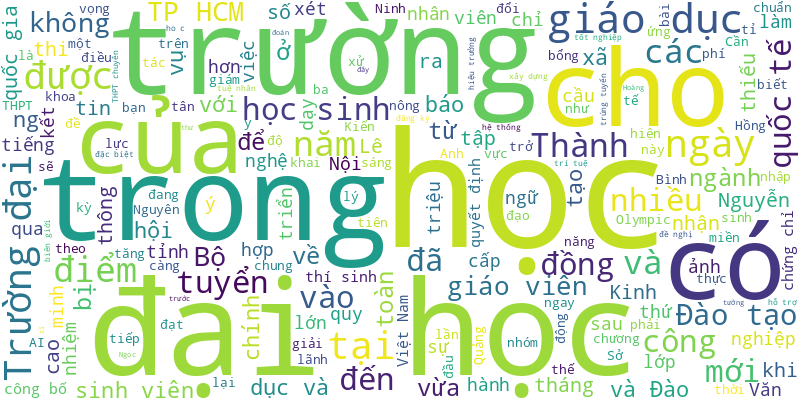
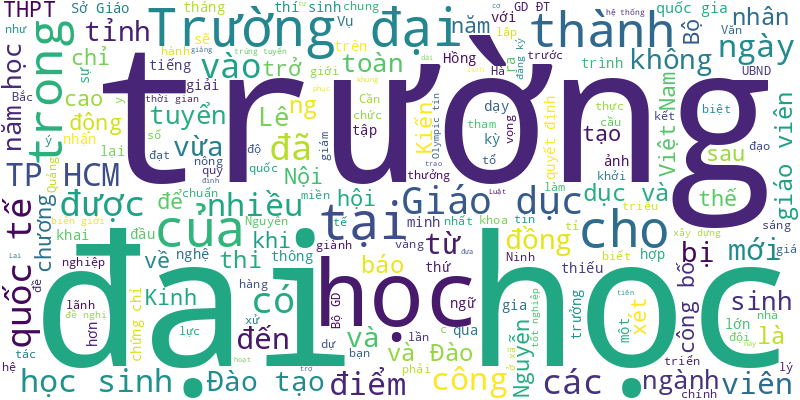
🍀 = 100%

diff --git a/README.md b/README.md
@@ -1,6 +1,17 @@
 # Tuoi Tre RSS 
 
 ## Giáo dục 
+- Từ năm học 2025 - 2026, Trường tiểu học Tô Vĩnh Diện (Hà Nội) sẽ là trường công lập đầu tiên tại Việt Nam đưa golf vào chương trình giảng dạy.
+- Bộ GD-ĐT vừa công bố khung thời gian năm học mới 2025-2026, với yêu cầu lịch tựu trường sớm nhất là trước lễ khai giảng 1 tuần.
+- Trường đại học Luật Hà Nội cơ sở 2 được xây dựng tại tỉnh Bắc Ninh, dự kiến khánh thành vào ngày 19-8.
+- Sở Giáo dục và Đào tạo TP.HCM vừa có văn bản trình UBND TP.HCM xem xét giải thể Trường quốc tế AISVN, sau một thời gian dài bị đình chỉ hoạt động mà không khắc phục được các vi phạm.
+- Hôm nay 11-8, nhiều trường tư thục ở TP.HCM đã chào đón học sinh trở lại trường sau kỳ nghỉ hè, khởi động cho năm học mới 2025 - 2026.
+- UBND tỉnh Gia Lai và nhà tài trợ đã trao thưởng em Lê Kiến Thành 100 triệu đồng vì thành tích đoạt huy chương vàng Olympic tin học quốc tế 2025.
+- Vượt qua hàng trăm đội từ các trường THPT trên toàn quốc tham gia cuộc thi FPTU AI & Robotics Challenge 2025 do Trường đại học FPT tổ chức, các học sinh Trường THPT Lê Hồng Phong (tỉnh Phú Yên cũ, nay là tỉnh Đắk Lắk) đã giành ngôi quán quân.
+- Từ Harvard, Yale, UC Berkeley đến University of Melbourne… những trường đại học danh giá hàng đầu thế giới đã trở thành đích đến của nhiều thế hệ học sinh Trường Quốc tế Á Châu (Asian School).
+- Hoàng Ngọc Thái Bình từng mơ làm bác sĩ chữa câm điếc cho ba để một lần được nghe tiếng ba gọi. Thế rồi một tháng trước ngày thi tốt nghiệp THPT mới đây, cha được chẩn đoán ung thư gan giai đoạn cuối.
+- Ý tưởng này được lãnh đạo Trường đại học Nguyễn Tất Thành công bố ngay sau khi báo Tuổi Trẻ khởi động chương trình học bổng Tiếp sức đến trường 2025.
+- Thời gian qua, bọn lừa đảo chủ yếu nhắm vào học sinh, sinh viên, có độ tuổi từ 18 đến 22 để  'bắt cóc online', đòi tiền chuộc và nhiều nạn nhân đã sập bẫy. Làm gì để ngăn tình trạng này?
 - Trường đại học Quốc tế cho biết sinh viên Lê Nguyễn Bảo Ngọc đã tốt nghiệp đại học trong đợt xét tháng 7-2025 với kết quả đạt loại giỏi.
 - Tin tức đáng chú ý: TP.HCM tuyển bổ sung hơn 4.800 giáo viên năm học 2025-2026; Cần Thơ khởi công nhà dưỡng lão chăm sóc người già neo đơn miễn phí; Đào tạo nâng cao kiến thức, kinh nghiệm của thầy thuốc điều trị tật khúc xạ...
 - Đại học Kinh tế quốc dân (NEU) vừa ban hành đề án Phát triển tiếng Anh trở thành ngôn ngữ thứ hai trong nhà trường.
@@ -40,71 +51,62 @@
 - Học 2 buổi/ngày nhưng nội dung học thế nào, có thực sự mang lại lợi ích cho học sinh không? Học sinh có được lựa chọn nội dung học tập không?...
 - Tổng điểm thi của thí sính thi vào lớp 10 khi nhân hệ số chỉ 24,4 điểm, nhưng trên bảng điểm lại là 39,4 điểm.
 - Trường đại học Y Dược TP.HCM vừa công bố danh sách 264 thí sinh bổ sung chứng chỉ quốc tế năm 2025 được cộng điểm xét tuyển đại học chính quy.
-- Chính phủ Anh chính thức nhận hồ sơ học bổng Chevening từ ngày 5-8 đến 7-10-2025, với loạt điều chỉnh trong yêu cầu ứng tuyển nhằm tăng tính gắn kết với các ưu tiên toàn cầu.
-- Ký túc xá Cỏ May đang tuyển chọn các tân sinh viên khóa 2025 có hoàn cảnh đặc biệt khó khăn, học giỏi để hỗ trợ ăn ở và học phí, tiếp tục con đường học vấn.
-- Ngoài điểm số, hiện nay ngày càng nhiều phụ huynh chú trọng đến việc rèn luyện thể chất, ý chí, khả năng làm việc nhóm và tính kỷ luật cho con, điều không thể chỉ học qua sách vở.
-- Ngay sau ngày nhập học, học sinh của 19 lớp 10 Trường THPT chuyên Chu Văn An, Hà Nội có những tiết học đầu tiên do chính cô hiệu trưởng đứng lớp với bài học về hướng nghiệp và cách xây dựng mục tiêu trong ba năm học ở cấp THPT.
-- Học sinh 3 trường THPT chuyên ở Ninh Bình được hỗ trợ 1,6 - 2,4 triệu đồng sinh hoạt phí, kèm 900.000 - 1,3 triệu đồng học bổng mỗi tháng.
-- Trong nhiệm vụ năm học mới 2025-2026 cấp phổ thông vừa được Bộ Giáo dục và Đào tạo ban hành, bài toán thiếu giáo viên tiếp tục được đặt ra.
-- Phòng Văn hóa - Xã hội thuộc UBND xã có 15 nhiệm vụ trong lĩnh vực giáo dục theo quy định mới.
-- Để đáp ứng việc dạy học trong bối cảnh trí tuệ nhân tạo (AI) ngày càng phát triển, trong thời gian hè này, hàng loạt trường học ở TP.HCM đã cấp tập đào tạo cho giáo viên về AI, chuyển đổi số.
-- Việt Nam giành 1 giải Champion, 10 huy chương vàng, 7 huy chương bạc, 4 huy chương đồng tại Đấu trường toán học châu Á AIMO 2025.
-- Quảng Ngãi đề xuất khoảng 750 tỉ đồng xây dựng 5 trường học liên cấp ở 5 xã. Các xã còn lại sẽ đề xuất sau.
-- Lần đầu tiên một chương trình đào tạo thạc sĩ chuẩn Đức trong lĩnh vực logistics và quản lý chuỗi cung ứng được tổ chức tại Việt Nam.
 ![Edu](Edu.png)
 ## Thời Sự 
-- Ung thư không còn gây chết chóc như trước kia, và những tiến bộ liên tục đang diễn ra trên phạm vi toàn cầu.
-- Cho phép người Việt vào chơi casino nếu quản lý tốt sẽ ngăn dòng tiền chảy ra nước ngoài, mang lại nguồn thu lớn cho ngân sách, góp phần lo an sinh xã hội.
-- Thời gian qua, bọn lừa đảo chủ yếu nhắm vào học sinh, sinh viên, có độ tuổi từ 18 đến 22 để  'bắt cóc online', đòi tiền chuộc và nhiều nạn nhân đã sập bẫy. Làm gì để ngăn tình trạng này?
-- Chuyến thăm cấp nhà nước 4 ngày của Tổng Bí thư Tô Lâm tới Hàn Quốc được cả hai phía đặt kỳ vọng cao, mong muốn có những dự án và con số cụ thể, đánh dấu bước tiến mới trong quan hệ Đối tác chiến lược toàn diện.
-- Sắp tới, người dân chỉ cần mở ứng dụng VNeID để mua thuốc, tiến tới người dân được nhận thuốc ngay tại nhà qua VNeID.
-- Tin tức đáng chú ý: Ủy ban Thường vụ Quốc hội họp, xem xét nhiều nội dung quan trọng; Tiền đóng bảo hiểm y tế giảm nhưng quyền lợi giữ nguyên; Ngân hàng nào cho vay nhiều nhất Việt Nam...
-- Sau thời gian vận hành, khu vực đón xe nhà ga T3 Tân Sơn Nhất vẫn còn nhiều bất cập, khiến không ít hành khách và tài xế gặp khó.
-- Hôm nay 11-8, thời tiết nắng nóng dần thu hẹp, chỉ còn tập trung ở các tỉnh miền Trung. Nam Bộ và Bắc Bộ trời có mưa to.
-- Tổng Bí thư Tô Lâm dành nhiều hoạt động cho kiều bào trong ngày 10-8, ngày đầu tiên ông đến thăm Hàn Quốc.
-- Thủ tướng Phạm Minh Chính nhấn mạnh việc triển khai hiệu quả Nghị quyết 68 của Bộ Chính trị, tạo đột phá thực sự để phát triển kinh tế tư nhân.
-- Hai ca sinh rớt bị ngưng tim, ngưng thở được các y bác sĩ Trung tâm Cấp cứu 115 TP.HCM cứu sống ngoạn mục.
-- Gặp Tổng Bí thư Tô Lâm, nhiều người Hàn Quốc đã bày tỏ tình cảm và sự gắn bó cùng những kỷ niệm không thể nào quên tại Việt Nam.
-- Báo cáo tài chính bán niên 2025 cho thấy Công ty Xổ số điện toán Việt Nam (Vietlott) đã chi tổng 2.494 tỉ đồng cho việc trả thưởng.
-- PGS.TS Nguyễn Lân Hiếu cho rằng một thiết bị có thể tăng cơ hội cứu sống người khác thì không ai lại lấy để đi bán.
-- Tài xế này cho rằng đường hẹp phải chuyển làn đường như vậy để có khoảng trống đủ rộng quay đầu xe, cũng như gia đình đang có việc đột xuất.
-- Lực lượng chức năng đã tìm thấy thi thể nam thanh niên leo núi Hoàng Ngưu Sơn nằm ở độ cao 800m so với mực nước biển.
-- Nhiều bạn đọc bày tỏ phẫn nộ với người đàn ông xăm trổ đánh dã man phụ nữ trước mặt nhiều trẻ nhỏ.
-- Đầu tối nay 10-8, trời tiết TP.HCM chuyển xấu nhanh, gió thổi bụi mù mịt, mưa to trút xuống nhiều nơi.
-- Sau gần 2 tuần kêu gọi doanh nghiệp góp ý chính sách hỗ trợ chuyển sang xe điện, Viện Nghiên cứu phát triển TP.HCM nhận được nhiều phản hồi.
-- Phường Quy Nhơn là trung tâm chính trị, văn hóa, lịch sử, kinh tế, hội tụ nhiều tiềm năng phát triển của tỉnh Gia Lai mới.
-- Các phường trung tâm của Đà Nẵng mở đợt ra quân xử lý mạnh tay các hành vi chiếm dụng vỉa hè, lòng đường.
-- Đông đã lừa đảo chiếm đoạt gần 1 tỉ đồng của một người dân thông qua thủ đoạn hứa lo thủ tục cấp giấy chứng nhận quyền sử dụng đất.
-- Sau hơn một tháng bùng phát, dịch tả heo châu Phi tại Quảng Ngãi đã cơ bản được kiểm soát.
-- Ngày 10-8, Đảng bộ quân sự tỉnh Tây Ninh tổ chức Đại hội đại biểu lần thứ I, nhiệm kỳ 2025 - 2030.
-- Nữ chiến sĩ Công an Hà Nội không chỉ hóa thân hoàn hảo vào vai "girl phố" gây rối trật tự công cộng mà còn gây ấn tượng với nhan sắc xinh đẹp.
-- Ngày 10-8, Đảng bộ phường Long Xuyên, tỉnh An Giang tổ chức thành công Đại hội đại biểu lần thứ I, nhiệm kỳ 2025-2030.
-- Việc sáp nhập TP.HCM với Bình Dương và Bà Rịa - Vũng Tàu mở ra cơ hội chưa từng có để tái cấu trúc không gian phát triển thành phố.
-- Nhiều thành phố lớn trên thế giới đang đồng thời triển khai các khu vực phát thải thấp và cấm xe xăng đi vào khu vực trung tâm.
-- Mỗi đại biểu dự Đại hội Đảng bộ xã Quỳnh Văn, Nghệ An nhận được phần quà trị giá hơn 300.000 đồng.
-- Sau gần 1 tuần tìm kiếm, trưa 10-8 lực lượng chức năng đã tìm thấy thi thể nam thanh niên mất tích khi leo núi Hoàng Ngưu Sơn (Khánh Hòa).
-- Khối nhà 3 tầng là tài sản công được UBND tỉnh Thừa Thiên Huế cũ bàn giao cho Viện Quy hoạch xây dựng quản lý.
-- Hai vụ rút chìa khóa xe; Bé trai 14 tháng tuổi bị bảo mẫu bạo hành đã qua đời… là những thông tin được nhiều bạn đọc TTO phản hồi tuần qua.
-- Một thanh niên lên mạng học làm tiền giả loại 500.000 đồng (tổng số tiền giả là 421,5 triệu đồng) nhưng chưa kịp tiêu thụ thì bị công an phát hiện.
-- Đoàn tàu được ví như “chuyên cơ mặt đất” của ngành đường sắt chính thức được đưa vào vận hành từ ngày 10-8.
-- Tổng Bí thư Tô Lâm và Phu nhân được chào đón trang trọng ngay tại sân bay, bắt đầu chuyến thăm Hàn Quốc trong 4 ngày từ ngày 10-8.
-- Đánh cá ngoài khơi, các ngư dân phát hiện một tàu cá trôi dạt, không có người nên lai dắt vào bờ, phối hợp tìm kiếm ngư dân mất tích.
-- Một nhóm người đã xâm nhập trái phép vào các tài khoản Facebook rồi mạo danh người thân của các chủ tài khoản để lừa đảo.
-- Đà Nẵng đã kiểm tra, lập biên bản và yêu cầu dừng toàn bộ hoạt động xe điện trẻ em không phép tại nhiều công viên.
-- Việc triển khai kinh doanh, hình thành các khu mua sắm, giải trí gắn kết với ga metro tại TP.HCM là một nhu cầu tất yếu.
-- Thủ tướng vừa phê chuẩn kết quả bầu chức danh phó chủ tịch UBND tỉnh Đồng Nai với ông Nguyễn Kim Long, chánh Văn phòng UBND tỉnh Đồng Nai.
-- Hơn 5.000 người đi bộ đồng hành vì nạn nhân chất độc da cam 2025 tại công viên văn hóa Đầm Sen sáng 10-8.
-- Hai ngôi nhà của hai mẹ con nằm cạnh nhau ở xã vùng heo hút Măng Bút, Quảng Ngãi bị cháy rụi trong đêm khiến người con thiệt mạng.
-- Đề xuất TP.HCM thiết lập vùng phát thải thấp (LEZ), hạn chế xe kinh doanh vượt ngưỡng khí thải đi vào khu trung tâm từ 2026.
-- Kỷ niệm 64 năm thảm họa da cam, một cuộc đi bộ ủng hộ các nạn nhân diễn ra ngày 10-8.
-- 22h tối nay (10-8) Hà Nội sẽ bắn pháo hoa kéo dài trong 8 phút với quy mô 300 quả pháo hoa tầm cao và 60 giàn pháo hoa tầm thấp.
-- Denis Demchenko lý giải hiện tượng này đến từ "cái tôi quá lớn", còn Marc Bruijns nhận xét cách nói chuyện lớn tiếng như vậy là "không lịch sự".
-- Sau tuần nắng nóng, thời tiết cả nước sẽ có mưa dông trở lại, nhiều nơi mưa to, chủ yếu xảy ra vào chiều tối.
-- Bộ Nội vụ sẽ dự thảo nghị định tổ chức hoạt động thôn, tổ dân phố và một số chế độ, chính sách của người hoạt động không chuyên trách.
-- Trong tối 9-8, lực lượng công an đã đưa 3 người đậu 2 ô tô giữa đường Nguyễn Hữu Hào rồi đuổi đánh nhau, về trụ sở công an làm việc.
-- Dự án metro số 1 nối sân bay Long Thành có tổng vốn đầu tư khoảng 65.000 tỉ đồng, chưa bao gồm chi phí bồi thường, giải phóng mặt bằng.
+- Hội đàm giữa Tổng Bí thư Tô Lâm và Tổng thống Hàn Quốc mở ra giai đoạn hợp tác mới, ưu tiên chất lượng, nâng tầm liên kết kinh tế.
+- Phó bí thư thường trực Đảng ủy xã Phong Dụ Thượng (tỉnh Lào Cai) lái xe tông vào nhiều người dân ở sân Nhà văn hóa thôn Làng Chạng khiến 1 em nhỏ tử vong.
+- Một số tin tức đáng chú ý: Các mốc thời gian sử dụng thẻ bảo hiểm y tế học sinh, sinh viên; Khối ngoại vừa 'xả' ròng mạnh nhất cổ phiếu nào?; Sữa Kun có tổng giám đốc mới sau thua lỗ...
+- Hôm nay 12-8, thời tiết Bắc Bộ, Trung Bộ ngày nắng nóng, chiều tối có mưa. Nam Bộ mưa nhiều nơi rải rác trong ngày.
+- Người đàn ông lái ô tô tông vào đám đông ở nhà văn hóa xã Phong Dụ Thượng (Lào Cai), khiến một người chết và 7-8 người bị thương.
+- 3 nghi phạm người Trung Quốc cấu kết với 2 người Việt Nam sử dụng trái phép thẻ thanh toán quốc tế, thông tin thẻ thanh toán quốc tế của người khác để chiếm đoạt khoảng 30 tỉ đồng.
+- Người phụ nữ bị thanh niên Nga chạy xe máy tông phải viết thư gởi giám đốc Công an tỉnh Khánh Hòa bày tỏ lòng biết ơn lực lượng này.
+- Cục Hàng không Việt Nam sẽ cùng ACV nghiên cứu kỹ lưỡng, đánh giá tác động phương án khai thác  sân bay Tân Sơn Nhất và sân bay Long Thành.
+- Tại Đại học Yonsei, Tổng Bí thư Tô Lâm đã có bài phát biểu chính sách về việc tăng cường hơn nữa quan hệ Đối tác chiến lược toàn diện Việt Nam - Hàn Quốc.
+- Thủ tướng Phạm Minh Chính chủ trì họp Ban Thường vụ Đảng ủy Chính phủ góp ý, hoàn thiện dự thảo nghị quyết về y tế và giáo dục.
+- Hàn Quốc mong Việt Nam tạo điều kiện cho doanh nghiệp Hàn tham gia dự án trọng điểm như điện hạt nhân, đường sắt cao tốc.
+- Tuyên bố chung giữa Việt Nam và Hàn Quốc gồm 23 điểm, hướng tới việc làm sâu sắc hơn quan hệ giữa hai Đối tác chiến lược toàn diện.
+- Chủ tịch HĐQT và giám đốc VietNamCapital lãnh án chung thân vì lừa 288 người, chiếm đoạt gần 140 tỉ đồng.
+- Doanh nghiệp trở thành "cỗ máy học tập" để người lao động liên tục cập nhật kiến thức, tăng năng suất làm việc, tránh bị đào thải bởi AI.
+- Logo kỷ niệm 50 năm thành lập báo Tuổi Trẻ đã xuất hiện tại quảng trường 2 Tháng 4, trung tâm Nha Trang (Khánh Hòa).
+- Ông Tôn Thành Minh (55 tuổi), một trong hai người tử vong trong vụ tai nạn lao động khi thi công cao tốc Quy Nhơn - Chí Thạnh, có hoàn cảnh gia đình rất khó khăn.
+- Sở Xây dựng TP.HCM báo cáo Cục Đường bộ Việt Nam về tiến độ dự án cao tốc TP.HCM - Thủ Dầu Một - Chơn Thành đoạn qua TP.HCM.
+- Nhiều trường hợp cán bộ, công chức, viên chức xin nghỉ việc ở tỉnh Khánh Hòa muốn được giải quyết chính sách, chế độ theo diện “do sắp xếp tổ chức bộ máy”.
+- Ban Thường vụ Tỉnh ủy Tây Ninh chỉ định thiếu tướng Vũ Như Hà giữ chức bí thư Đảng ủy Công an tỉnh nhiệm kỳ 2025-2030.
+- Đại tướng Nguyễn Tân Cương nêu rõ việc trao quyền cho Thủ tướng Chính phủ được áp dụng các biện pháp luật chưa quy định là cơ sở để vận dụng được các biện pháp khi chưa ban bố được tình trạng khẩn cấp.
+- Ông Nguyễn Trọng Nghĩa, ủy viên Bộ Chính trị, trưởng Ban Tuyên giáo và Dân vận Trung ương, yêu cầu bộ đội biên phòng quản lý tốt an ninh biên giới, ứng xử khéo léo, mềm mỏng, không để xảy ra xung đột vũ lực trên tuyến biên giới.
+- Từ bảng chỉ dẫn rối rắm, khoảng cách xa, giá taxi cao... khiến không ít người ví việc tìm được xe ở nhà ga T3 Tân Sơn Nhất như 'vượt chướng ngại vật'.
+- Dự kiến 28 doanh nghiệp sẽ được vinh danh giải thưởng “Doanh nghiệp tiêu biểu vì người lao động” năm 2025.
+- Tổng công ty Đầu tư phát triển đường cao tốc Việt Nam phê duyệt mở rộng cao tốc TP.HCM - Long Thành lên 8-10 làn, khởi công ngày 19-8.
+- Xã Củ Chi (TP.HCM) đã hoàn thành nâng cấp trụ sở Trung tâm phục vụ hành chính công, chào mừng Đại hội Đảng bộ xã.
+- Lâm Đồng dự kiến sửa chữa, nâng cấp 5km đường giao thông nông thôn, nhằm rút ngắn khoảng cách từ trung tâm Đà Lạt đến Gia Nghĩa.
+- Phường Bến Thành (TP.HCM) vừa có báo cáo tiến độ xử lý các vấn đề an ninh trật tự liên quan đến các cơ sở kinh doanh trên phố đi bộ Bùi Viện.
+- Trường đại học Luật Hà Nội cơ sở 2 được xây dựng tại tỉnh Bắc Ninh, dự kiến khánh thành vào ngày 19-8.
+- Trong lúc đi đường, người dân phát hiện bé gái sơ sinh được đặt trên một thùng giấy nên trình báo cơ quan chức năng.
+- Sau nhiều ngày triển khai, câu lạc bộ Sài Gòn Xanh (thuộc Hội Liên hiệp thanh niên Việt Nam TP.HCM) đã thử nghiệm robot vớt rác trên mặt nước, nhằm giảm thiểu sức người cho việc lội xuống kênh thu gom rác.
+- Ngày 11-8, Trung tâm Quản lý và điều hành giao thông Hà Nội cho biết để phục vụ nhân dân, du khách tham gia Triển lãm thành tựu kinh tế - xã hội nhân dịp kỷ niệm 80 năm Ngày Quốc khánh, đơn vị tăng cường thêm nhiều tuyến xe buýt.
+- Sau thời gian xôn xao dư luận về việc một xã tại tỉnh Bình Định cũ đốt tài liệu trước lúc sáp nhập, đến nay cơ quan công an đã có kết quả điều tra bước đầu.
+- Sáng 11-8, Tổng cục Hậu cần - Kỹ thuật phối hợp Học viện Hậu cần đã khai mạc lớp tập huấn công tác hậu cần, tài chính cho cán bộ Quân đội nhân dân Lào.
+- Quy trình phục chế ngai vàng triều Nguyễn bị khách tham quan bẻ gãy sẽ được thực hiện qua 9 bước, từ vệ sinh khoa học, tái định vị các mảnh vỡ, phục hồi lớp sơn thếp vàng đến phủ bảo vệ và nghiệm thu.
+- Phát triển giao thông xanh, giảm khí thải vào bầu không khí là mục tiêu mà TP.HCM hướng đến để giảm ô nhiễm.
+- Những ngày này, dọc tuyến đường Trường Sơn Đông đoạn qua xã Kon Plông, xã Sơn Tây… (Quảng Ngãi), ươi rực đỏ khắp những cánh rừng, người dân đổ xô đi nhặt lộc trời.
+- Nhạc hội Cảnh sát thế giới 2025 diễn ra ngày 9 và 10-8 tại Hà Nội với sự tham gia của 11 đoàn trong và ngoài nước.
+- Sáng 11-8, Công an TP.HCM tổ chức khai mạc triển lãm 'Công an TP.HCM tiếp bước truyền thống anh hùng'.
+- Sân bay Long Thành sẽ cơ bản hoàn thành trong năm 2025 và đưa vào vận hành, khai thác thương mại vào năm 2026.
+- Từ ngày 19-8, cao tốc TP.HCM - Long Thành - Dầu Giây có thêm lối ra vào tại nút giao vành đai 3 (nối cầu Nhơn Trạch), kèm trạm thu phí.
+- Phó bí thư thường trực Nguyễn Thanh Nghị cùng Thường trực Thành ủy TP.HCM nghe ý kiến cán bộ lãnh đạo cao cấp, lãnh đạo TP.HCM nghỉ hưu góp ý dự thảo báo cáo chính trị Đại hội đại biểu Đảng bộ TP.HCM lần thứ I, nhiệm kỳ 2025-2030.
+- Bất chấp thời tiết nóng bức, người dân vẫn đổ về Hồ Gươm dịp cuối tuần để xem kỵ binh, nghe quân nhạc các nước ở Nhạc hội Cảnh sát thế giới 2025.
+- Phó bí thư Thành ủy TP.HCM Đặng Minh Thông chỉ đạo Đảng bộ phường Thủ Đức cần chú trọng phát triển các trung tâm thương mại - dịch vụ chất lượng cao gắn với TOD.
+- Nhiệm kỳ 2025-2030, Đảng bộ đặc khu Phú Quốc xác định nhiều khâu đột phá và đặc biệt sẽ kiến tạo không gian xanh, phát triển kinh tế, du lịch bền vững.
+- Do bực tức hai bạn nhậu thất hứa, không nhậu 'tăng 2' nên nam thanh niên đập phá hàng loạt ô tô đậu trên đường.
+- Những ngày này, các lực lượng thuộc Quân chủng Hải quân, Cảnh sát biển Việt Nam, Bộ đội biên phòng và Quân khu 5 đang tích cực tập luyện để phục vụ lễ diễu binh lực lượng vũ trang trên biển Cam Ranh - Khánh Hòa.
+- Sáng 11-8, Đại tướng Trịnh Văn Quyết, chủ nhiệm Tổng cục Chính trị Quân đội nhân dân Việt Nam, đã chủ trì lễ đón và hội đàm với Trung tướng Vongsone Inpanphim, thứ trưởng Bộ Quốc phòng, chủ nhiệm Tổng cục Chính trị Quân đội nhân dân Lào.
+- UBND TP.HCM đã chỉ đạo các đơn vị khẩn trương rà soát, phối hợp các bộ ngành đề xuất cấp có thẩm quyền điều chỉnh, bổ sung Nghị quyết 98 theo trình tự thủ tục rút gọn.
+- Phó chủ tịch Quốc hội Nguyễn Khắc Định cho rằng cần giữ nhân tài trong nước nhưng phải luân chuyển giữa các bộ phận công - tư, đem văn hóa doanh nghiệp vào quản lý nhà nước và ngược lại.
+- Đoạn cao tốc Quy Nhơn - Chí Thạnh (qua xã Tuy An Bắc, Đắk Lắk) xảy ra vụ tai nạn lao động khiến 2 người chết, 1 người bị thương.
 ![New](News.png)
 ## Nhịp sống số 
+- Từ lỗ hổng này, tin tặc có thể khiến ChatGPT gợi ý người dùng tải về phần mềm chứa vi rút, đưa ra lời khuyên kinh doanh sai lệch, thậm chí truy cập các tệp tin trên Google Drive...
+- Nắm rõ một số dấu hiệu cảnh báo, phát hiện và sửa chữa càng sớm càng tốt khi bị hack điện thoại giúp hạn chế thiệt hại.
 - Thông tin rò rỉ về các sản phẩm trong series iPhone 17, dự kiến ra mắt vào tháng 9-2025, tiếp tục được nhiều nguồn uy tín tung ra.
 - Công nghệ có thể truyền tải tri thức nhanh hơn, rẻ hơn. Nhưng khi AI trở thành 'thầy', liệu giá trị sáng tạo, trải nghiệm thực tế có đang bị thuật toán hóa thành những khuôn mẫu vô hồn?
 - Khi AI trả lời mọi thứ chỉ trong vài giây, người dùng không cần nhấp chuột truy cập trang web gốc. Điều này tạo ra cuộc khủng hoảng với các trang web sống nhờ lượt truy cập.
@@ -153,6 +155,4 @@
 - Mirage được giới thiệu có thể chuyển đổi các luồng video trực tiếp sang nhiều phong cách hình ảnh khác nhau mà vẫn giữ nguyên chuyển động, cấu trúc và tốc độ khung hình.
 - Thông tin Meta AI có thể đọc lén tin nhắn cá nhân trên WhatsApp đang lan truyền nhanh chóng trên mạng xã hội khiến nhiều người dùng hoang mang. Tuy nhiên, kiểm chứng cho thấy đây là thông tin sai lệch và gây hiểu nhầm.
 - Từ những nhân vật hoạt hình biết nói, biết hát đến những người nổi tiếng không tồn tại thật, idol ảo đang vươn lên thành ngôi sao mạng xã hội nhờ công nghệ AI và kiếm tiền như người thật.
-- Cảnh báo các chiêu lừa đảo qua điện thoại: giả danh ngân hàng, công an, điện lực để chiếm đoạt tài sản. Tuyệt đối không cung cấp OTP, mật khẩu, thông tin cá nhân và không chuyển tiền khi chưa xác minh.
-- Thứ trường Bộ KH&amp;CN Phạm Đức Long nhấn mạnh tại hội nghị tổ chức sáng nay ở Hà Nội.
 ![life](Life.png)
